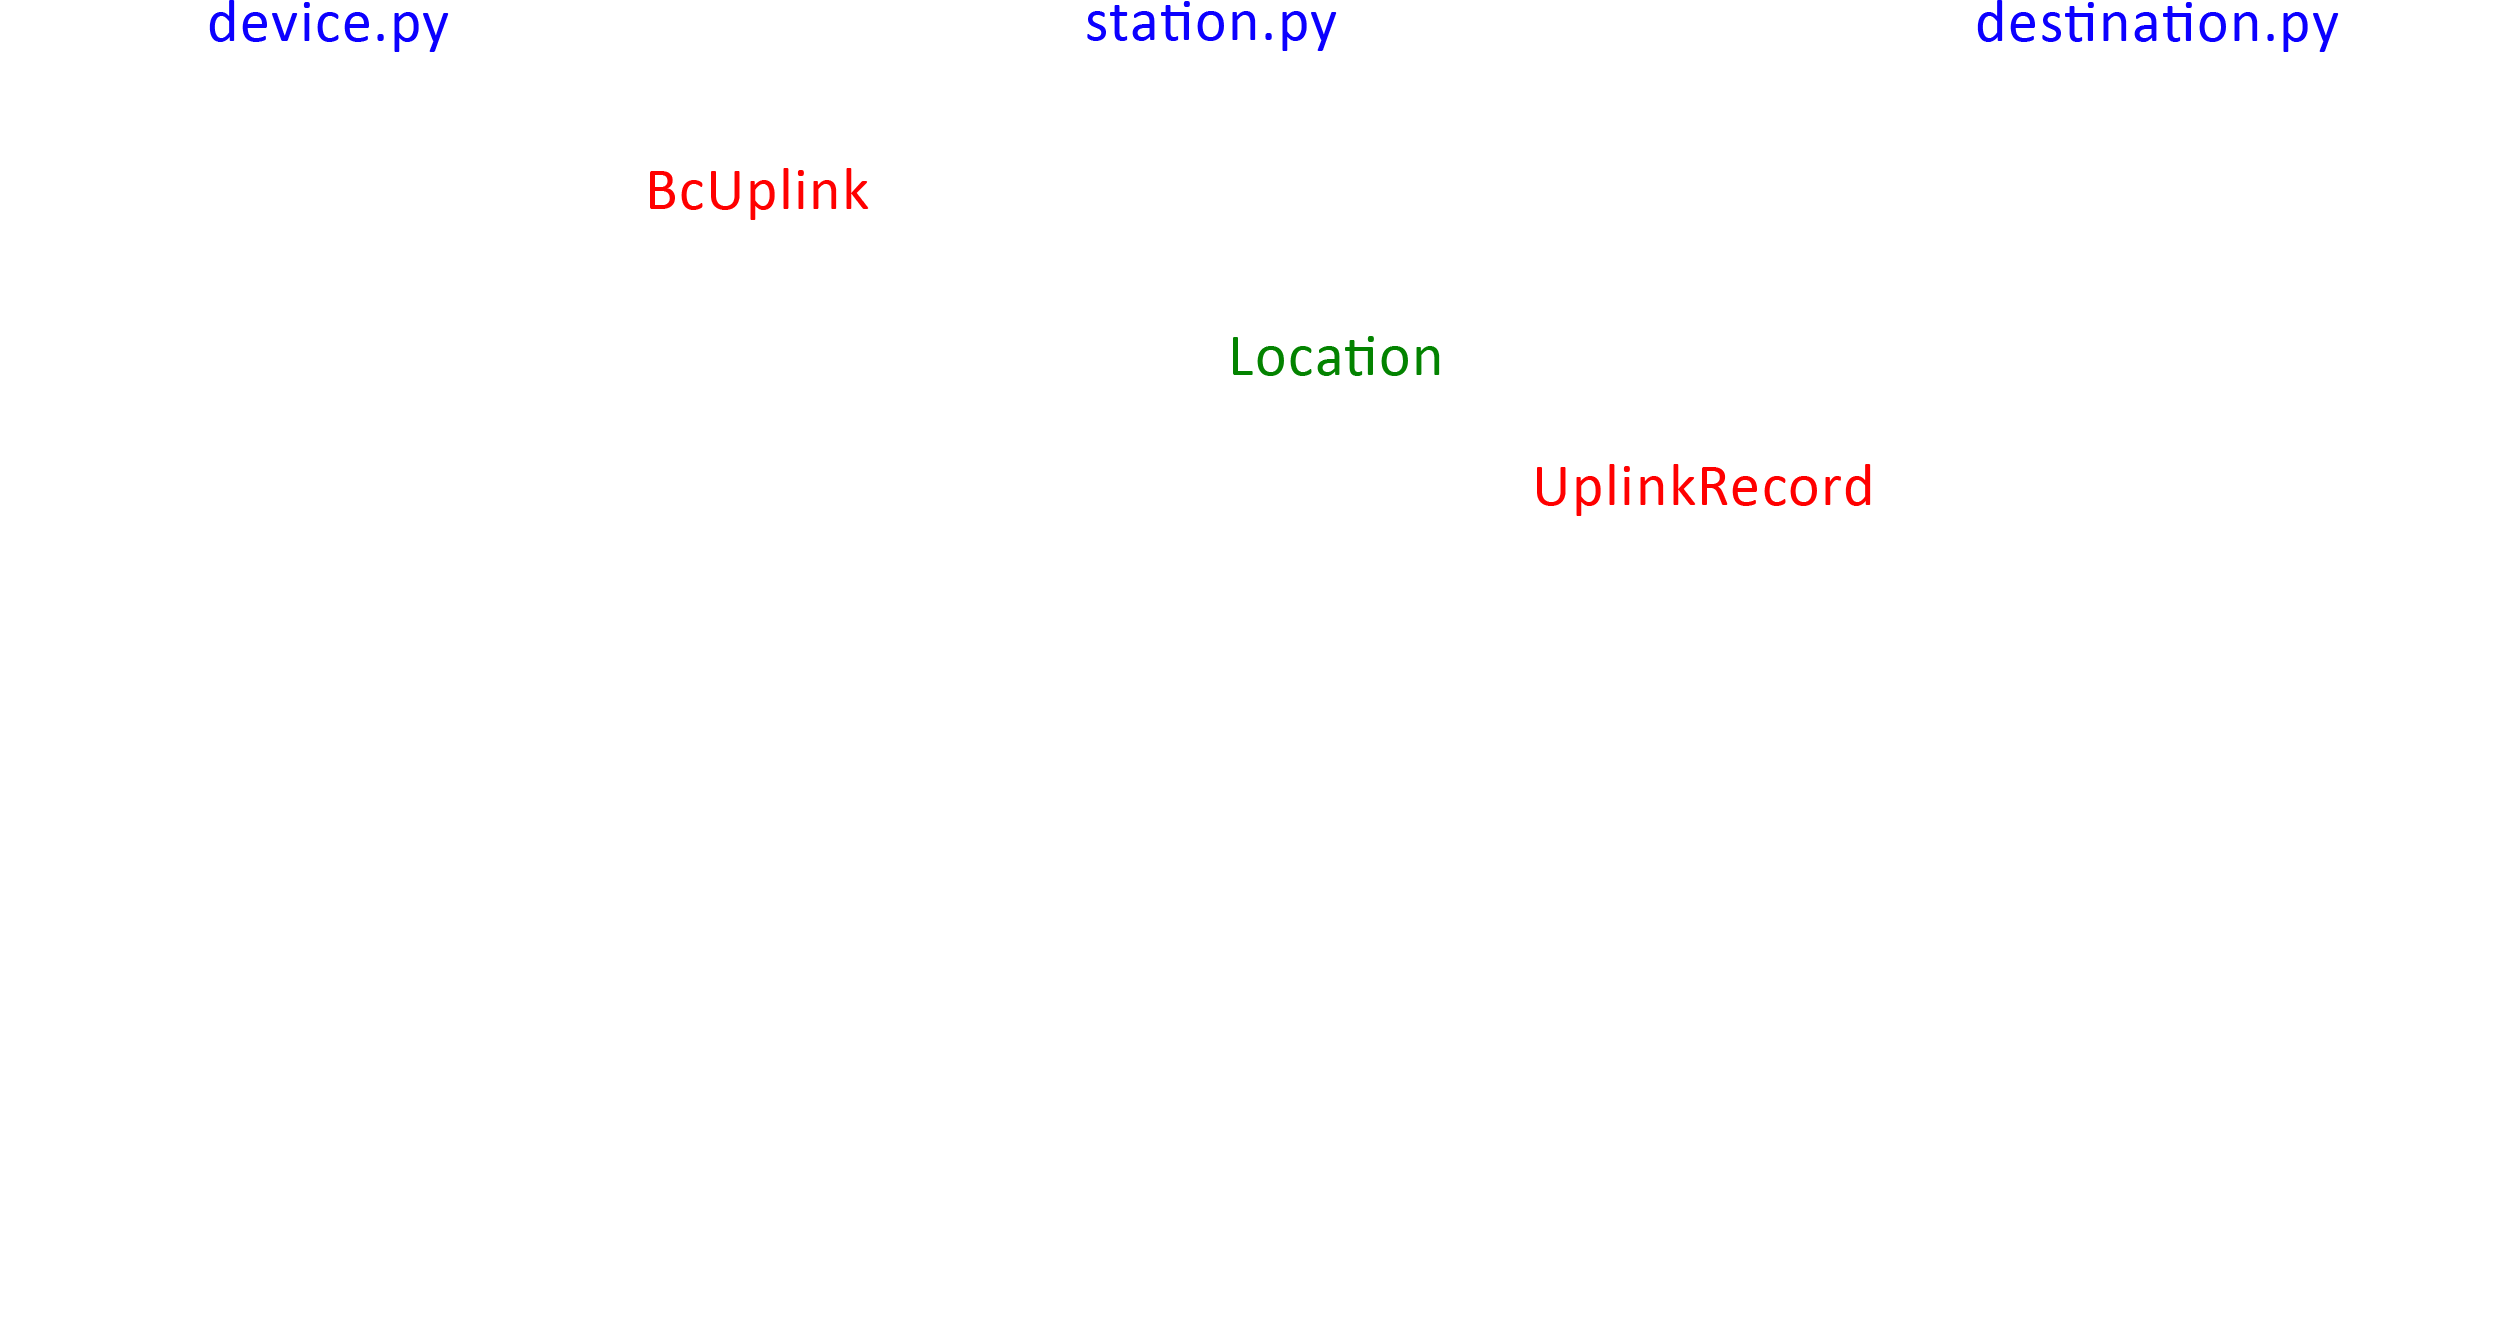
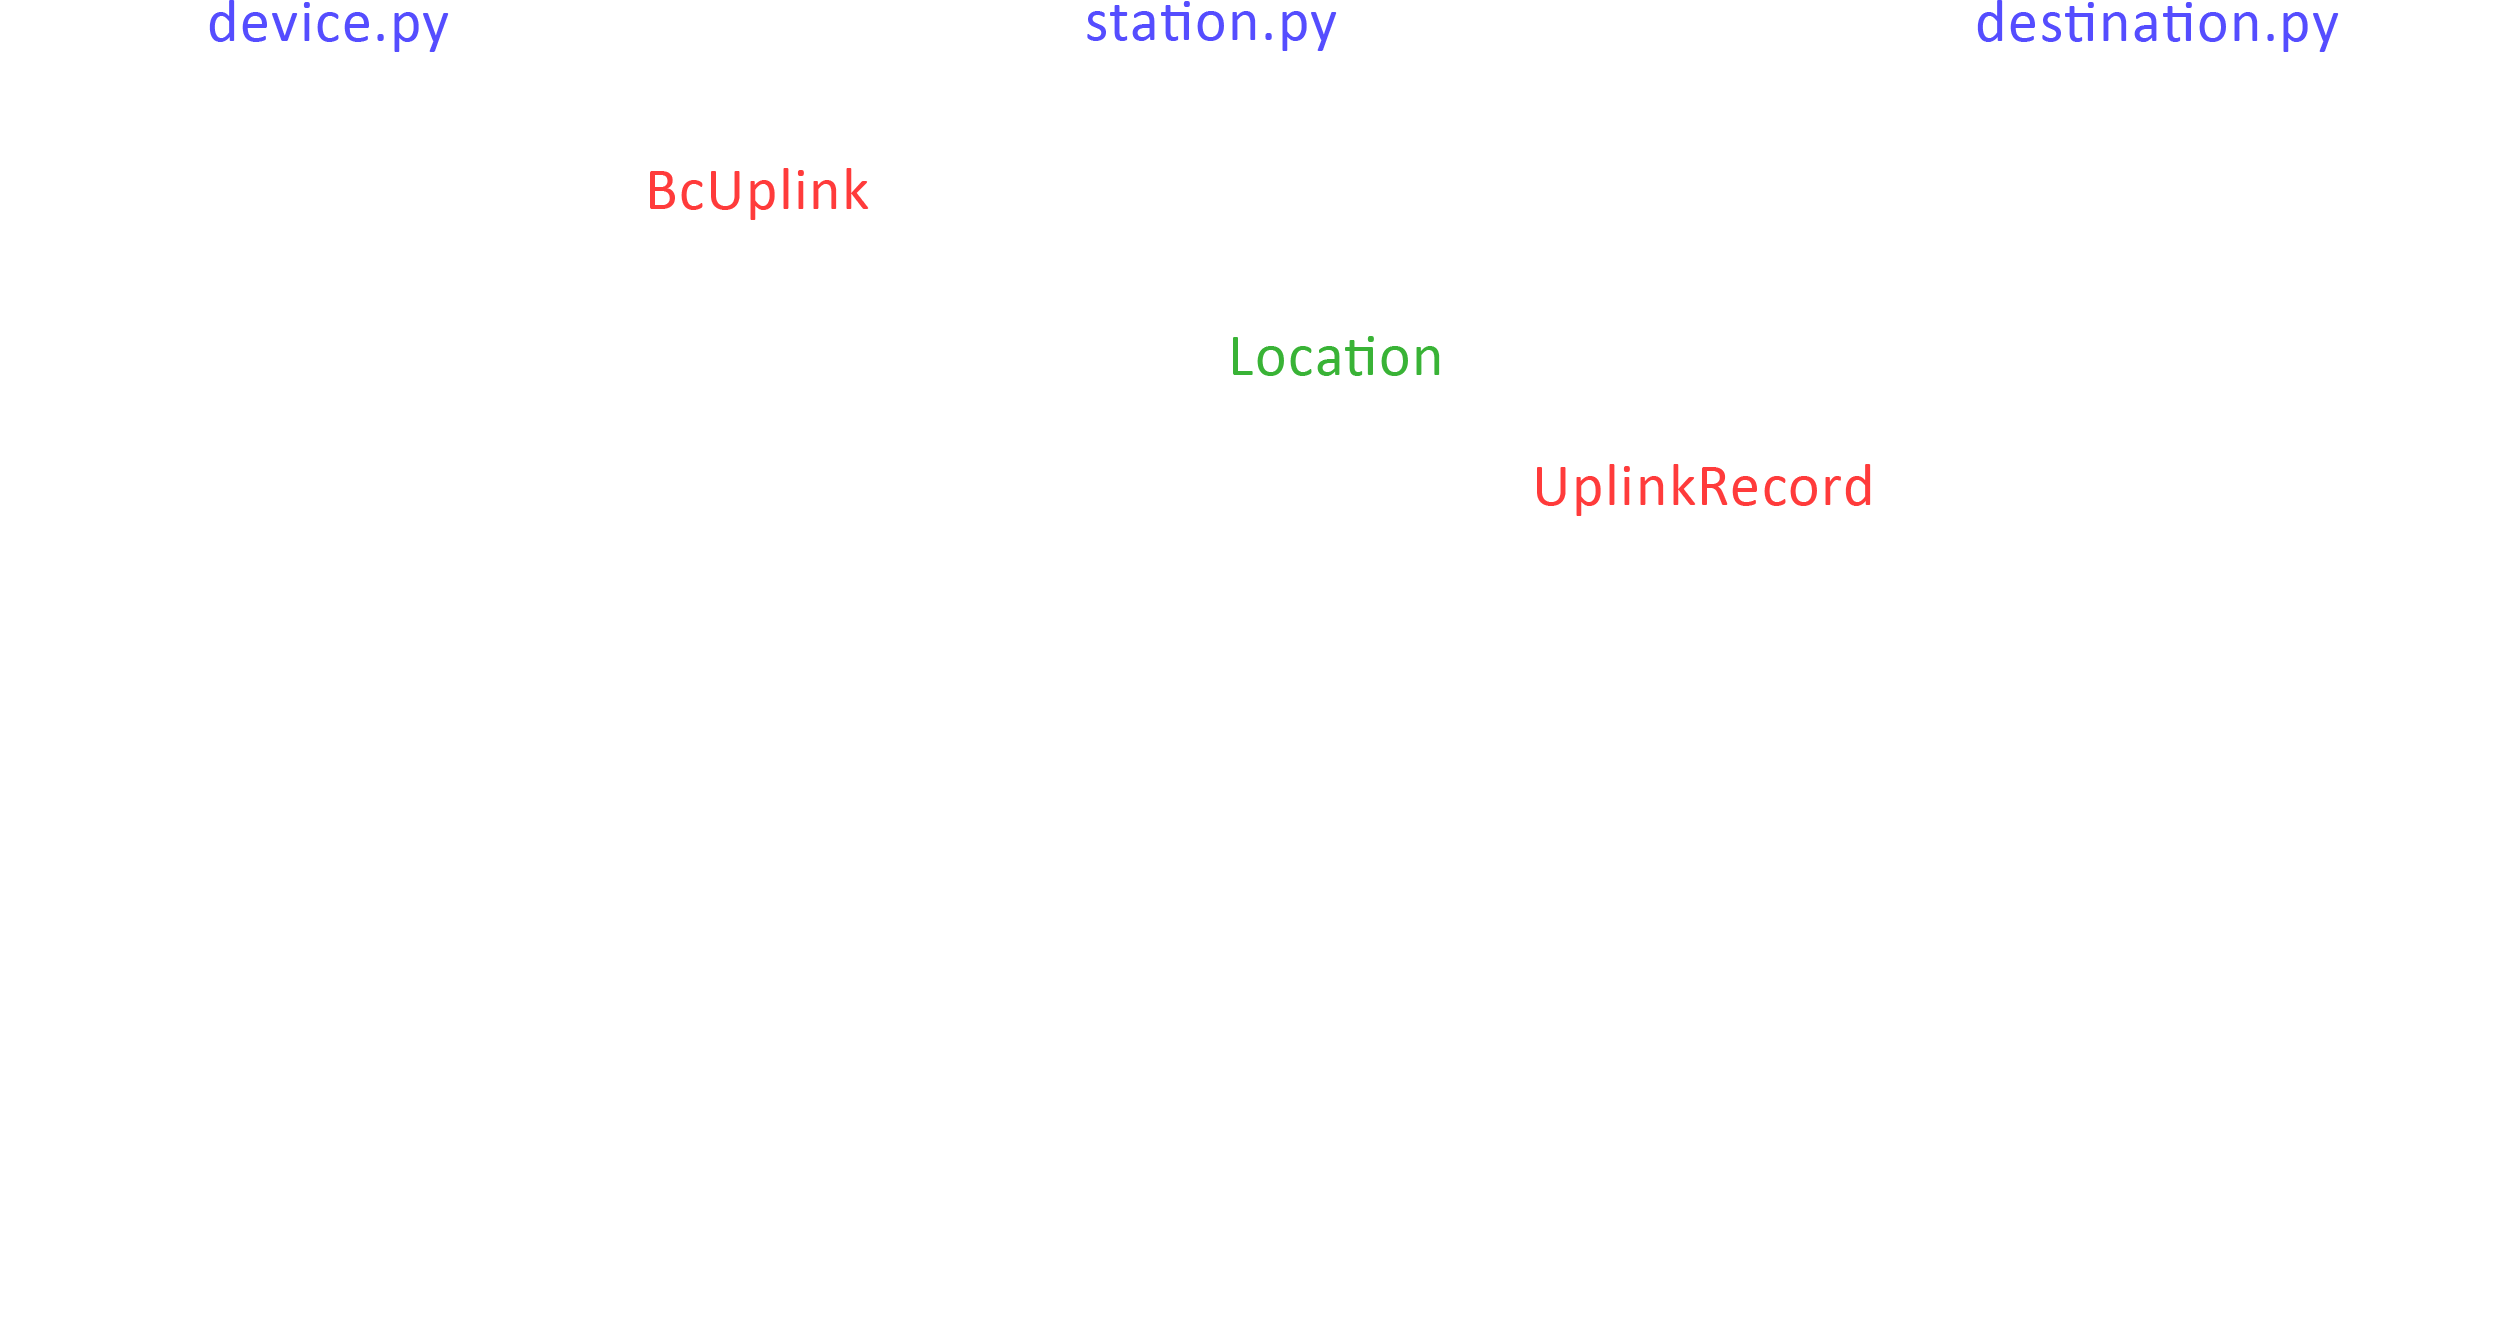
Added Architecture Image Attribution

diff --git a/README.md b/README.md
@@ -3,6 +3,8 @@
 ![Architecture](/assets/architecture_dark.png#gh-dark-mode-only)
 ![Architecture](/assets/architecture_light.png#gh-light-mode-only)
 
+*Adapted from "Associating Devices with Access Points Using Credentials," [WO/2022/232740](https://patentscope.wipo.int/search/en/detail.jsf?docId=WO2022232740), published November 3, 2022, with modifications to reflect the architecture of the project.*
+
 ## Setup Environment
 
 Setup python virtual environment and install dependencies:
